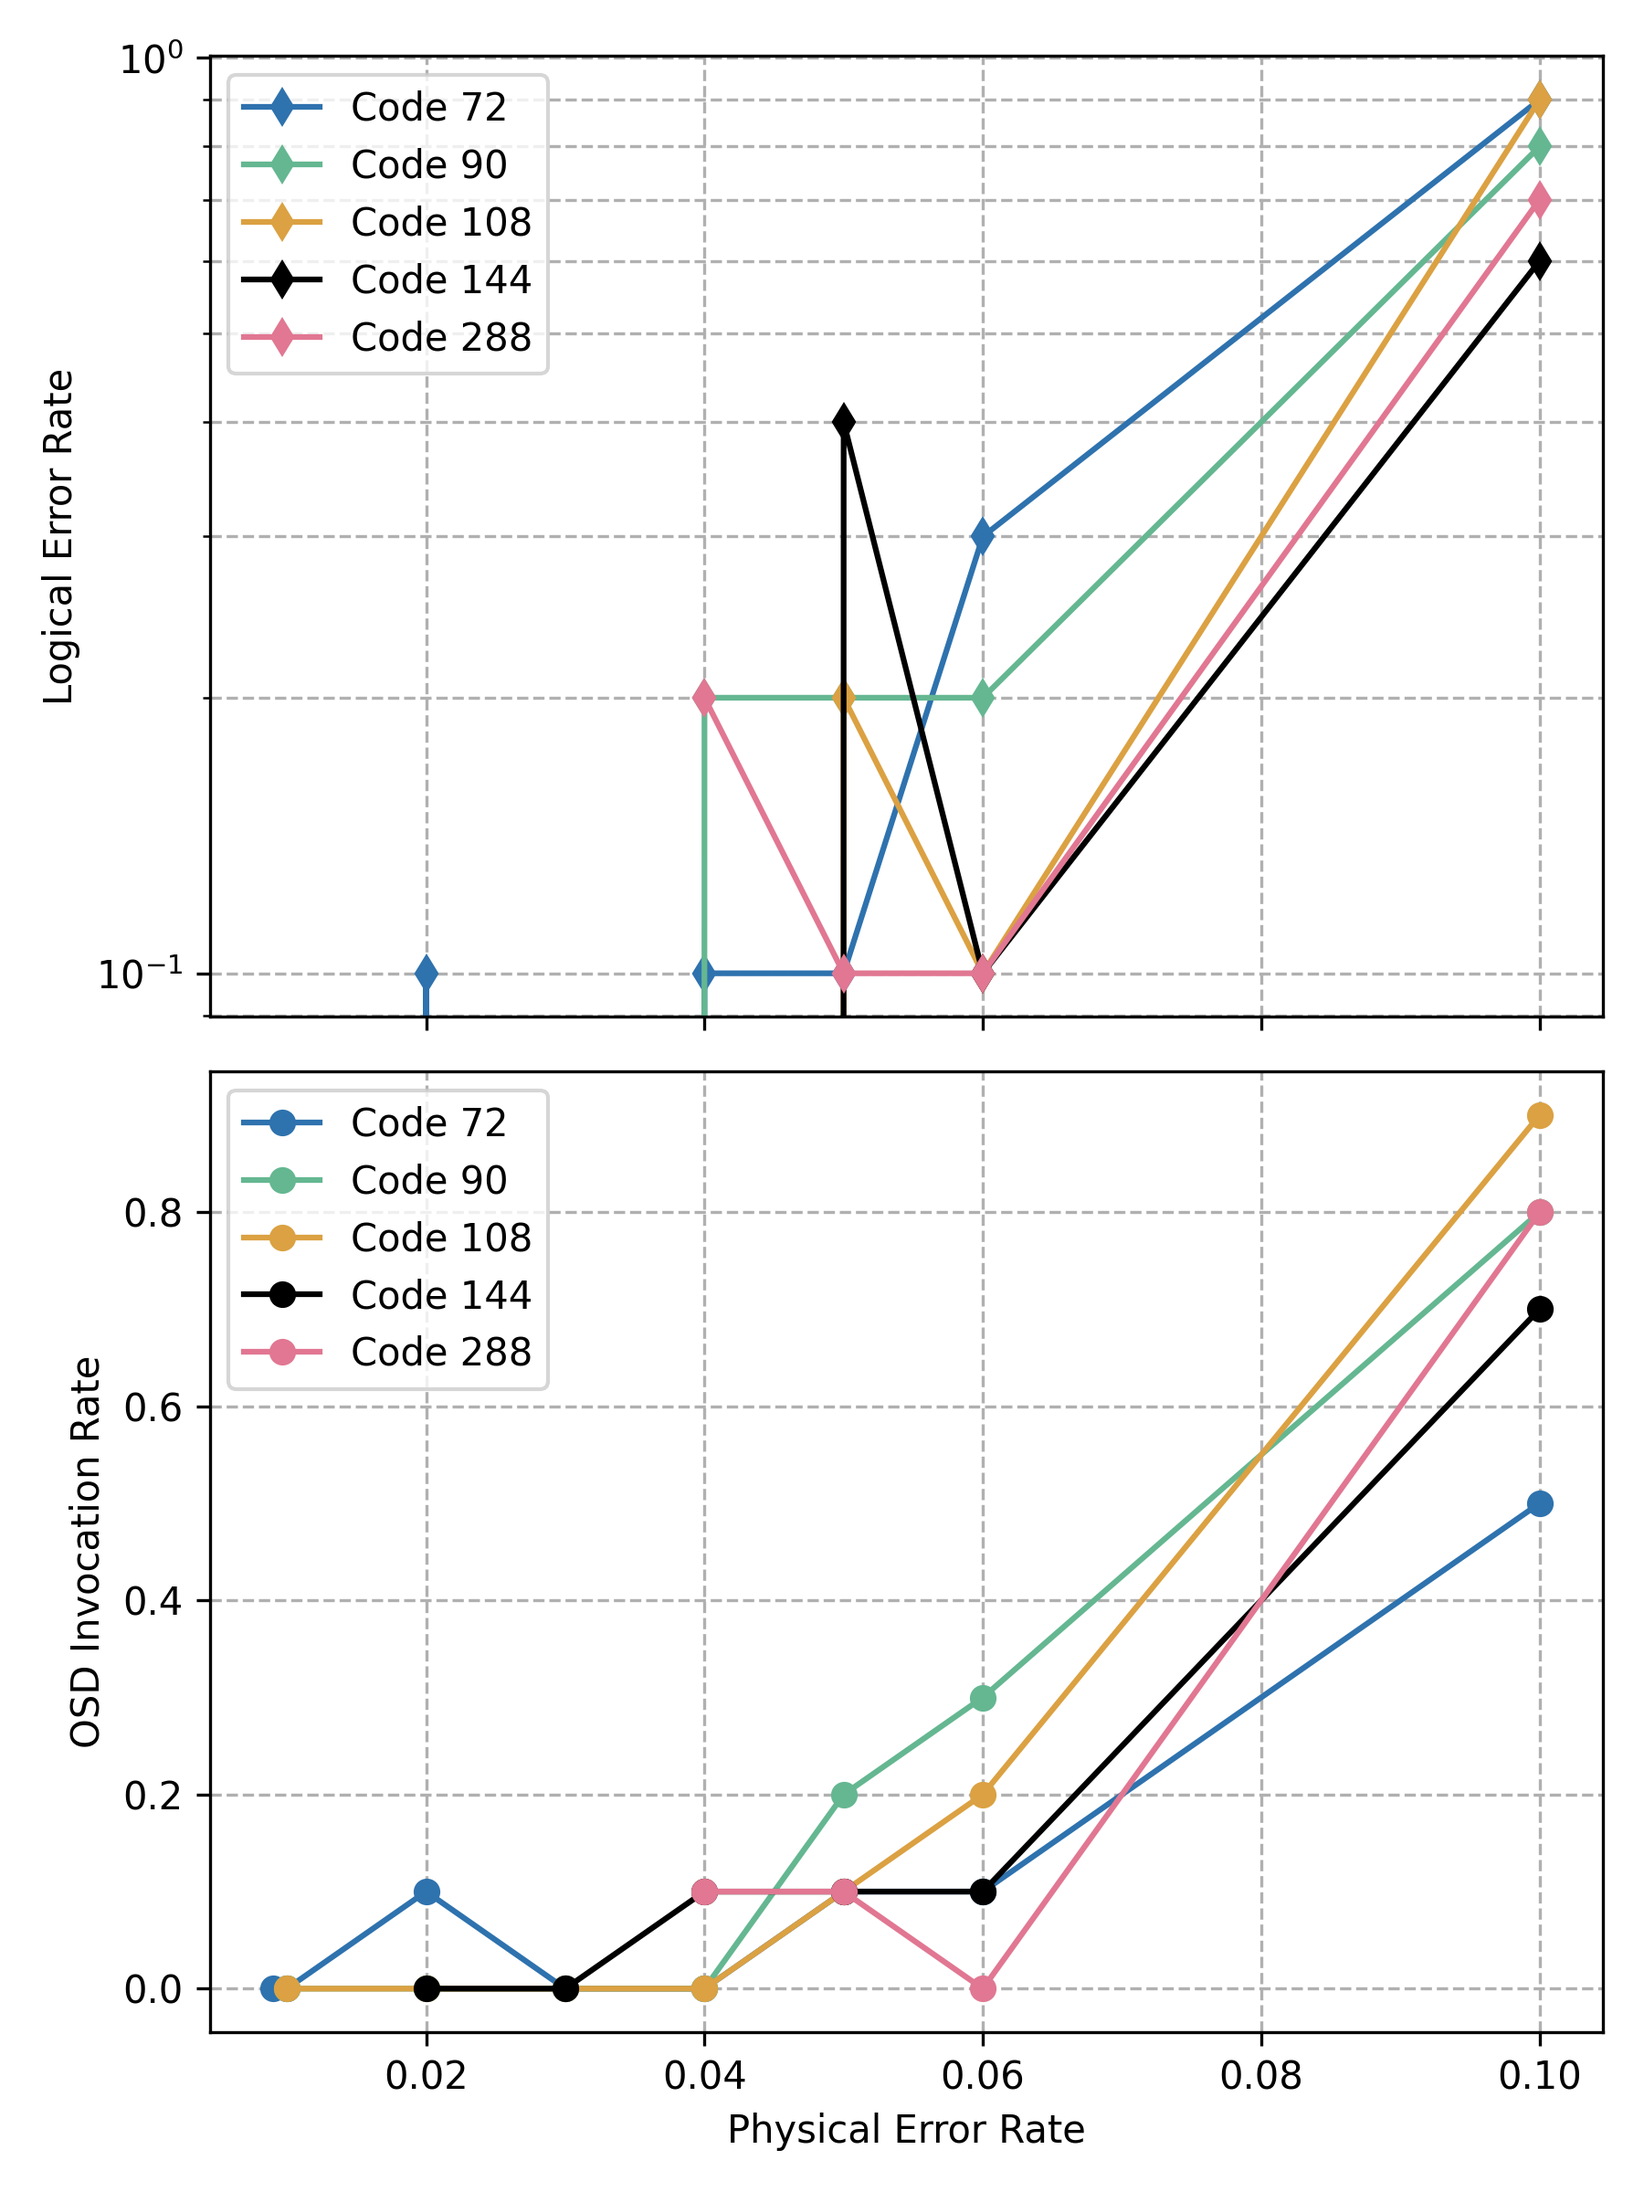
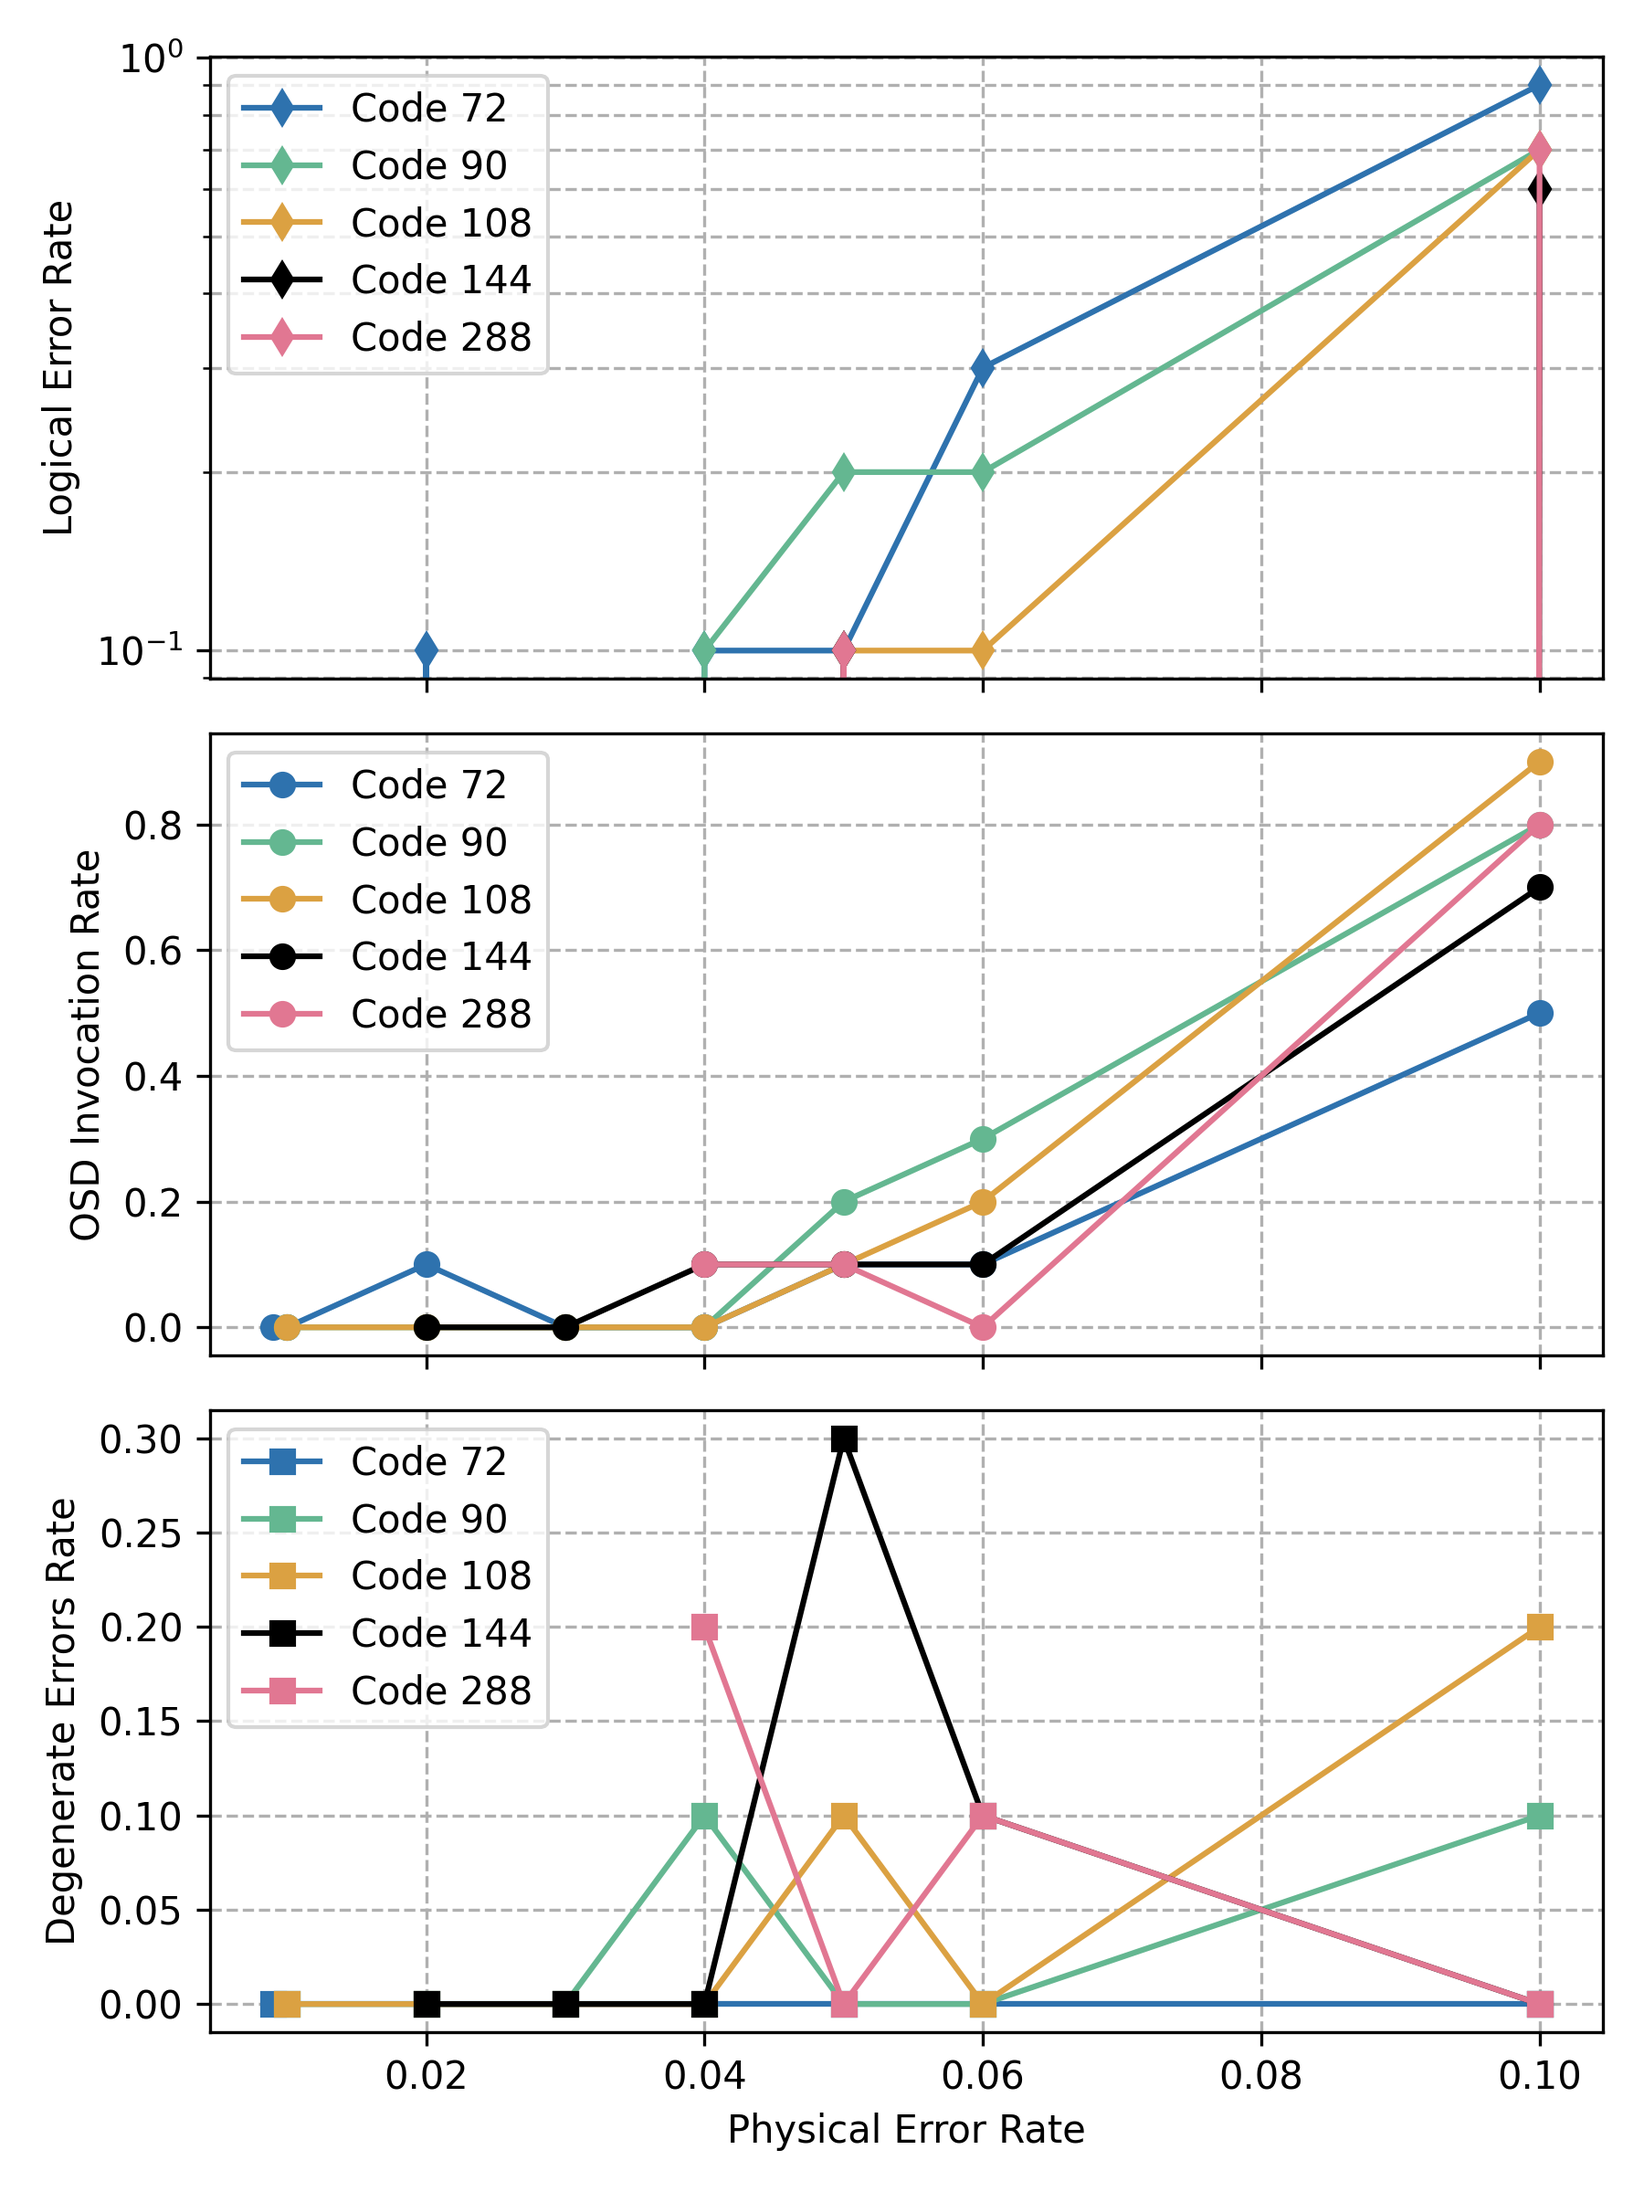
Degeneracies and weight histogram

diff --git a/rework/main.py b/rework/main.py
@@ -38,6 +38,8 @@ experiment = [
     },
 ]
 
+experiment_dict = {exp["name"]: exp for exp in experiment}
+
 trials = 10
 
 np.random.seed(0)
@@ -56,7 +58,12 @@ for exp in experiment:
 
         logicalError = 0
         OSD_invocations = 0
-        weights_found = []
+        degenerateErrors = 0
+        weights_found_BP = []
+        weights_found_OSD = []
+        
+        weights_found_BP_error = []
+        weights_found_OSD_error = []
         
 
         for _ in tqdm.tqdm(range(trials), desc=f"Code {code_name}, p={errorRate}"):
@@ -71,31 +78,50 @@ for exp in experiment:
             if not isSyndromeFound:
                 detection = performOSD_enhanced(code, syndrome, llrs, detection, order=2)
                 OSD_invocations += 1
-
-            if np.any(detection != error):
-                logicalError += 1
                 
             residual = (detection + error) % 2
             syndromeLogic = (Lx @ residual) % 2
+            
+            osd_syndrome_check = (detection @ code.T) % 2
+            is_valid_osd = np.array_equal(osd_syndrome_check, syndrome)
+            
+            if is_valid_osd and not np.any(syndromeLogic) and (np.array_equal(detection, error) == False):
+                degenerateErrors += 1
+                
+            if np.any(syndromeLogic):
+                logicalError += 1
+                if not isSyndromeFound:
+                    weights_found_OSD_error.append(np.sum(residual))
+                if isSyndromeFound:
+                    weights_found_BP_error.append(np.sum(residual))
+            
             if not np.any(syndromeLogic):
                 if not np.array_equal(detection, error):
                     w = np.sum(residual)
-                    weights_found.append(w)
+                    if not isSyndromeFound: weights_found_OSD.append(w)
+                    if isSyndromeFound: weights_found_BP.append(w)
 
         logicalErrorRate = logicalError / trials
         OSD_invocationRate = OSD_invocations / trials
+        degenerateErrorRate = degenerateErrors / trials
         results[code_name][errorRate] = {
             "logical": logicalErrorRate,
             "osd": OSD_invocationRate,
-            "weights_found": weights_found,
+            "degeneracies": degenerateErrorRate,
+            "weights_found_BP": weights_found_BP,
+            "weights_found_OSD": weights_found_OSD,
+            "weights_found_BP_error": weights_found_BP_error,
+            "weights_found_OSD_error": weights_found_OSD_error,
         }
         print(
             f"Code {code_name}, p={errorRate}, Logical Error Rate: {logicalErrorRate}, OSD Invocation Rate: {OSD_invocationRate}"
         )
+        
+np.savez("rework/simulation_results.npz", results=results)
 
 colors = ["2E72AE", "64B791", "DBA142", "000000", "E17792"]
 
-fig, axes = plt.subplots(2, 1, figsize=(6, 8), sharex=True)
+fig, axes = plt.subplots(3, 1, figsize=(6, 8), sharex=True)
 for (code_name, code_results), color in zip(results.items(), colors):
     x = list(code_results.keys())
     axes[0].semilogy(
@@ -112,29 +138,76 @@ for (code_name, code_results), color in zip(results.items(), colors):
         label=f"Code {code_name}",
         color=f"#{color}",
     )
+    axes[2].plot(
+        x,
+        [v["degeneracies"] for v in code_results.values()],
+        marker="s",
+        label=f"Code {code_name}",
+        color=f"#{color}",
+    )
 
 axes[0].set_ylabel("Logical Error Rate")
 axes[0].grid(True, which="both", ls="--")
 axes[0].legend()
 
-axes[1].set_xlabel("Physical Error Rate")
 axes[1].set_ylabel("OSD Invocation Rate")
 axes[1].grid(True, which="both", ls="--")
 axes[1].legend()
 
+axes[2].set_xlabel("Physical Error Rate")
+axes[2].set_ylabel("Degenerate Errors Rate")
+axes[2].grid(True, which="both", ls="--")
+axes[2].legend()
+
 plt.tight_layout()
 plt.savefig("rework/logical_error_rates.png", dpi=300)
 
-fig2, axes2 = plt.subplots(1, 5, figsize=(15, 4))
+fig2, axes2 = plt.subplots(2, 5, figsize=(15, 8))
 for i, (code_name, code_results) in enumerate(results.items()):
-    weights = []
+    weights_BP = []
+    weights_OSD = []
     for res in code_results.values():
-        weights.extend(res["weights_found"])
-        
-    if weights:
-        axes2[i].hist(weights, bins=range(min(weights), max(weights)+2), color=f"#{colors[i]}", alpha=0.7)
-    axes2[i].set_title(f"Code {code_name}")
-    axes2[i].set_xlabel("Weight")
-    axes2[i].set_ylabel("Frequency")
+        weights_BP.extend(res["weights_found_BP"])
+        weights_OSD.extend(res["weights_found_OSD"])
+    
+    if weights_BP:
+        axes2[0, i].hist(weights_BP, bins=np.arange(0, 30)-0.5, color=f"#{colors[i]}", alpha=0.7)
+    axes2[0, i].axvline(x=experiment_dict[code_name]['distance'], color='red', linestyle='dashed', label='Code Distance')
+    axes2[0, i].set_title(f"Code {code_name} (BP)")
+    axes2[0, i].set_xlabel("Weight")
+    axes2[0, i].set_ylabel("Frequency")
+    
+    if weights_OSD:
+        axes2[1, i].hist(weights_OSD, bins=np.arange(0, 30)-0.5, color=f"#{colors[i]}", alpha=0.7)
+    axes2[1, i].axvline(x=experiment_dict[code_name]['distance'], color='red', linestyle='dashed', label='Code Distance')
+    axes2[1, i].set_title(f"Code {code_name} (OSD)")
+    axes2[1, i].set_xlabel("Weight")
+    axes2[1, i].set_ylabel("Frequency")
+
 plt.tight_layout()
 plt.savefig("rework/weights_histograms.png", dpi=300)
+
+fig2, axes2 = plt.subplots(2, 5, figsize=(15, 8))
+for i, (code_name, code_results) in enumerate(results.items()):
+    weights_BP = []
+    weights_OSD = []
+    for res in code_results.values():
+        weights_BP.extend(res["weights_found_BP_error"])
+        weights_OSD.extend(res["weights_found_OSD_error"])
+    
+    if weights_BP:
+        axes2[0, i].hist(weights_BP, bins=np.arange(0, 30)-0.5, color=f"#{colors[i]}", alpha=0.7)
+    axes2[0, i].axvline(x=experiment_dict[code_name]['distance'], color='red', linestyle='dashed', label='Code Distance')
+    axes2[0, i].set_title(f"Code {code_name} (BP)")
+    axes2[0, i].set_xlabel("Weight")
+    axes2[0, i].set_ylabel("Frequency")
+    
+    if weights_OSD:
+        axes2[1, i].hist(weights_OSD, bins=np.arange(0, 30)-0.5, color=f"#{colors[i]}", alpha=0.7)
+    axes2[1, i].axvline(x=experiment_dict[code_name]['distance'], color='red', linestyle='dashed', label='Code Distance')
+    axes2[1, i].set_title(f"Code {code_name} (OSD)")
+    axes2[1, i].set_xlabel("Weight")
+    axes2[1, i].set_ylabel("Frequency")
+
+plt.tight_layout()
+plt.savefig("rework/weights_histograms_ERROR.png", dpi=300)
